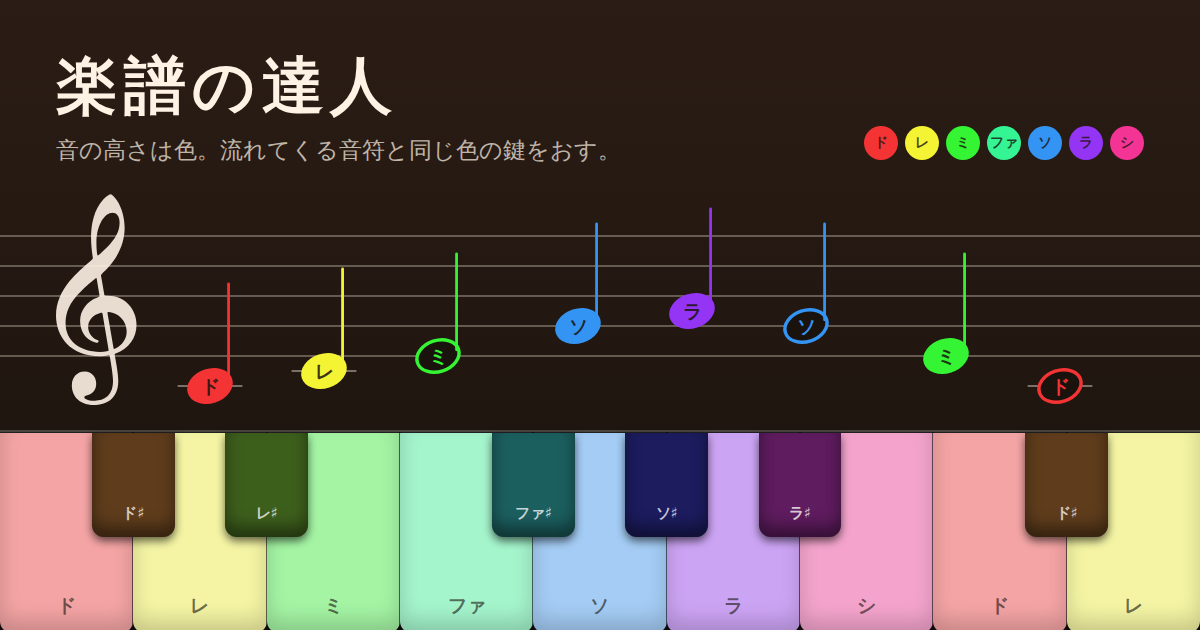
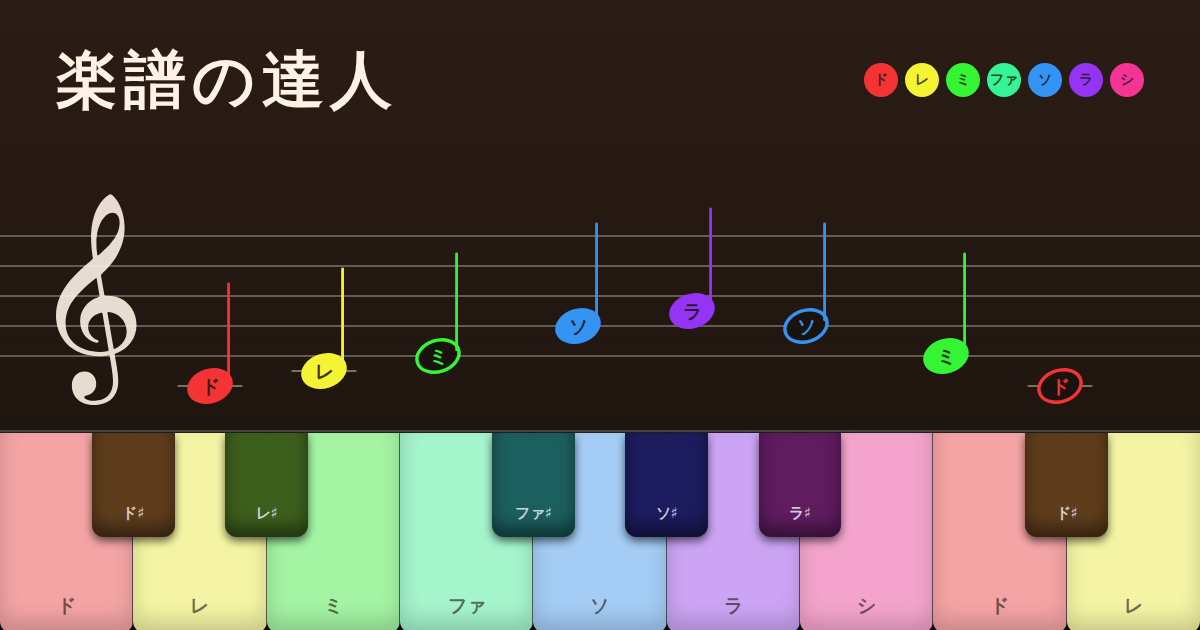
共有画像からタグラインを外す
「音の高さは色。流れてくる音符と同じ色の鍵をおす。」を落としました。
絵そのものが同じことを言っているので、文章は要りません。

空いたぶん五線譜を上げて、題字と鍵盤のあいだで釣り合う位置にしました。
題字と十二音の見本は、同じ高さに並べています。

Claude-Session: https://claude.ai/code/session_019No2CbhaaPvAadHw3XMxdu

diff --git a/pages/tools/og.ts b/pages/tools/og.ts
@@ -134,12 +134,9 @@ console.log(`<!doctype html><meta charset="utf-8"><style>
 </style>
 <div style="position:relative;width:${W}px;height:${H}px">
   <svg width="${W}" height="${KEYS_TOP}" style="position:absolute;top:0;left:0">${svg}</svg>
-  <div style="position:absolute;top:52px;left:56px;right:56px;display:flex;align-items:flex-end;justify-content:space-between;gap:32px">
-    <div>
-      <div style="font-size:62px;font-weight:800;letter-spacing:0.1em;line-height:1.1">楽譜の達人</div>
-      <div style="margin-top:14px;font-size:23px;line-height:1.45;color:rgba(253,242,228,0.72)">音の高さは色。流れてくる音符と同じ色の鍵をおす。</div>
-    </div>
-    <div style="display:flex;gap:7px;padding-bottom:8px">${hues}</div>
+  <div style="position:absolute;top:46px;left:56px;right:56px;display:flex;align-items:center;justify-content:space-between;gap:32px">
+    <div style="font-size:62px;font-weight:800;letter-spacing:0.1em;line-height:1.1">楽譜の達人</div>
+    <div style="display:flex;gap:7px">${hues}</div>
   </div>
   <div style="position:absolute;top:${KEYS_TOP}px;left:0;width:${W}px;height:${
   H - KEYS_TOP
